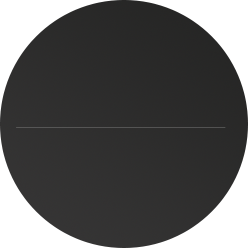
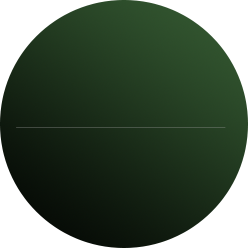
changed artwork
changed rpm gradient art

diff --git a/instrument_cluster/ClusterTutorial/Cluster_Art.ui.qml b/instrument_cluster/ClusterTutorial/Cluster_Art.ui.qml
@@ -192,7 +192,7 @@ Item {
             }
 
             Keyframe {
-                easing.bezierCurve: [0.90, 0.03, 0.69, 0.22, 1, 1]
+                easing.bezierCurve: [0.229, 0.00801, 0.354, 0.639, 0.489, 0.742, 0.625, 0.844, 0.788, 0.873, 1, 1]
                 value: 1.1
                 frame: 4117
             }
@@ -454,6 +454,6 @@ Item {
 
 
 /*##^## Designer {
-    D{i:20}
+    D{i:17;timeline_expanded:true}D{i:20}
 }
  ##^##*/
